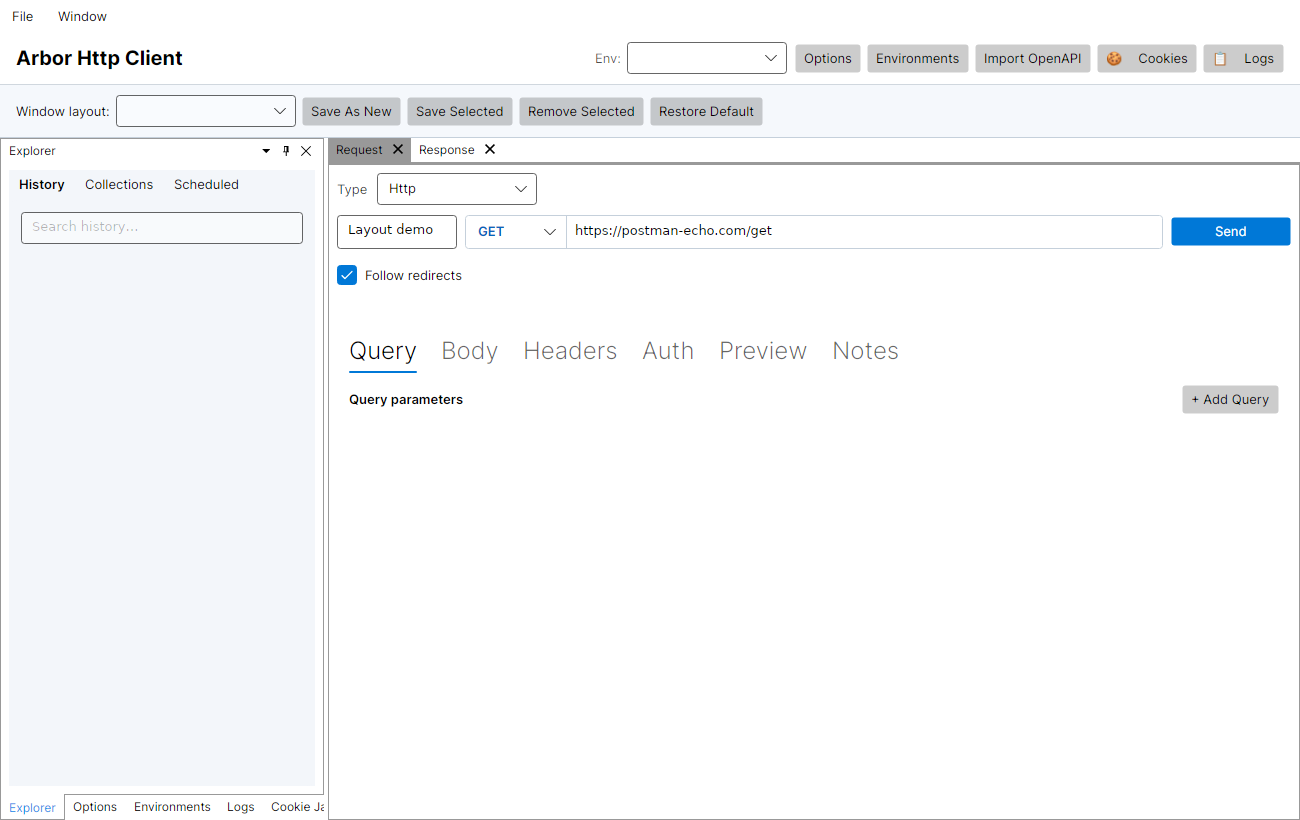
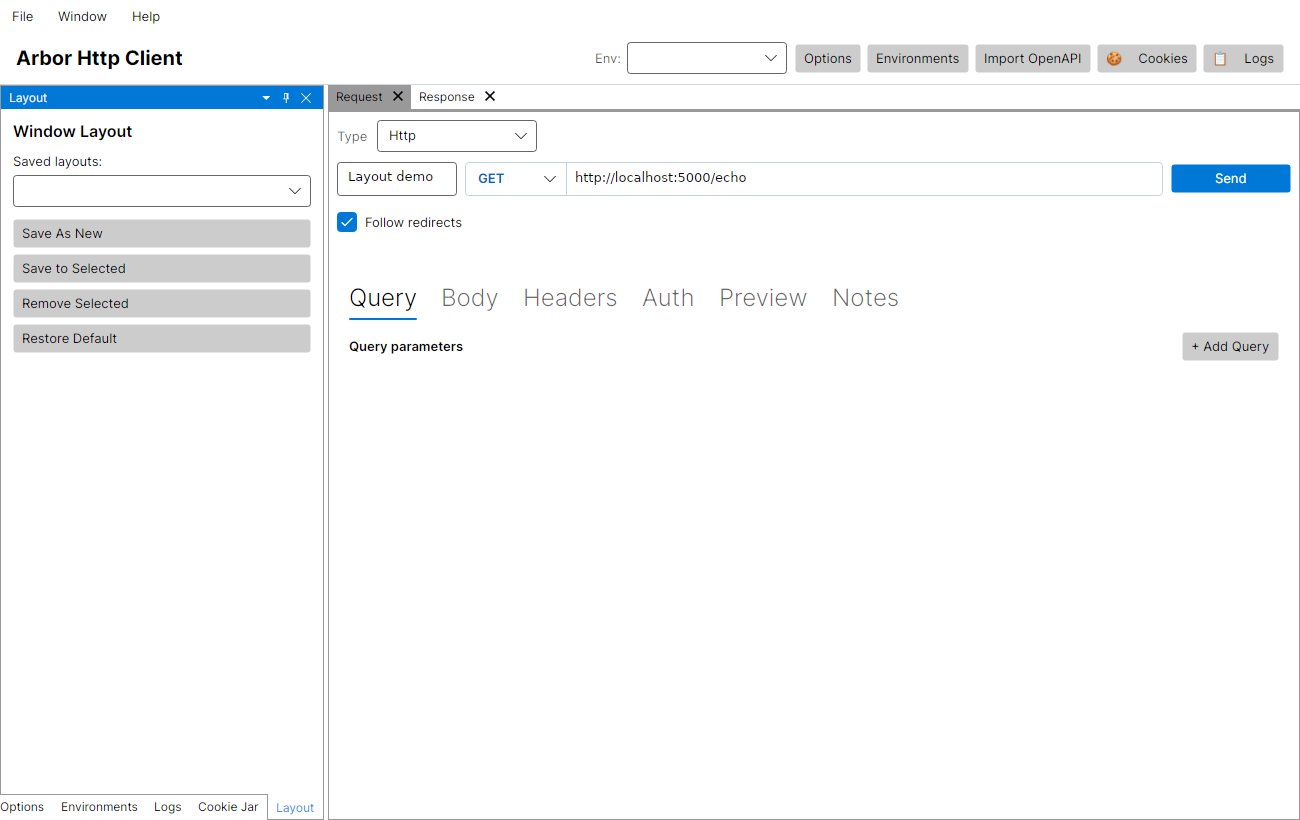
Convert layout management panel to dockable tool window
- Add LayoutManagementViewModel (Tool subclass) with proxy commands
- Add LayoutManagementView.axaml with window layout controls
- Register Layout panel as 6th dockable in DockFactory left tool dock
- ToggleLayoutPanel now activates the dockable instead of toggling a bar
- Remove IsLayoutPanelVisible property and inline Border from MainWindow
- Update E2E screenshot test to use new command
- Regenerate layout-panel.png showing new dockable panel
- Update docs/ux-ideas.md with implementation entry

Agent-Logs-Url: https://github.com/niklaslundberg/Arbor.HttpClient/sessions/1ef6acad-60b3-43e0-91c3-1bee6fef9440

diff --git a/src/Arbor.HttpClient.Desktop/ViewModels/DockFactory.cs b/src/Arbor.HttpClient.Desktop/ViewModels/DockFactory.cs
@@ -33,6 +33,7 @@ public sealed class DockFactory : Factory
     public EnvironmentsViewModel? EnvironmentsViewModel { get; private set; }
     public LogPanelViewModel? LogPanelViewModel { get; private set; }
     public CookieJarViewModel? CookieJarViewModel { get; private set; }
+    public LayoutManagementViewModel? LayoutManagementViewModel { get; private set; }
 
     public override IRootDock CreateLayout()
     {
@@ -41,17 +42,19 @@ public sealed class DockFactory : Factory
         var environments = _environmentsViewModel;
         var logs = new LogPanelViewModel(_mainVm);
         var cookieJar = _cookieJarViewModel;
+        var layoutManagement = new LayoutManagementViewModel(_mainVm);
         OptionsViewModel = options;
         EnvironmentsViewModel = environments;
         LogPanelViewModel = logs;
         CookieJarViewModel = cookieJar;
+        LayoutManagementViewModel = layoutManagement;
 
         var leftToolDock = new ToolDock
         {
             Id = "left-tool-dock",
             Proportion = 0.25,
             ActiveDockable = leftPanel,
-            VisibleDockables = CreateList<IDockable>(leftPanel, options, environments, logs, cookieJar),
+            VisibleDockables = CreateList<IDockable>(leftPanel, options, environments, logs, cookieJar, layoutManagement),
             Alignment = Alignment.Left,
             GripMode = GripMode.Visible
         };

diff --git a/src/Arbor.HttpClient.Desktop/ViewModels/LayoutManagementViewModel.cs b/src/Arbor.HttpClient.Desktop/ViewModels/LayoutManagementViewModel.cs
@@ -1,0 +1,28 @@
+using CommunityToolkit.Mvvm.Input;
+using Dock.Model.Mvvm.Controls;
+
+namespace Arbor.HttpClient.Desktop.ViewModels;
+
+public sealed partial class LayoutManagementViewModel : Tool
+{
+    public LayoutManagementViewModel(MainWindowViewModel app)
+    {
+        App = app;
+        Id = "layout-management";
+        Title = "Layout";
+    }
+
+    public MainWindowViewModel App { get; }
+
+    [RelayCommand]
+    private void SaveLayoutAsNew() => App.SaveLayoutAsNewCommand.Execute(null);
+
+    [RelayCommand]
+    private void SaveLayoutToExisting() => App.SaveLayoutToExistingCommand.Execute(App.SelectedLayoutName);
+
+    [RelayCommand]
+    private void RemoveLayout() => App.RemoveLayoutCommand.Execute(App.SelectedLayoutName);
+
+    [RelayCommand]
+    private void RestoreDefaultLayout() => App.RestoreDefaultLayoutCommand.Execute(null);
+}

diff --git a/src/Arbor.HttpClient.Desktop/ViewModels/MainWindowViewModel.cs b/src/Arbor.HttpClient.Desktop/ViewModels/MainWindowViewModel.cs
@@ -161,9 +161,6 @@ public partial class MainWindowViewModel : ViewModelBase, IDisposable
     private bool _isNewCollectionFormVisible;
 
     [ObservableProperty]
-    private bool _isLayoutPanelVisible;
-
-    [ObservableProperty]
     private string? _selectedLayoutName;
 
     public const string SystemThemeOption = "System";
@@ -834,7 +831,14 @@ public partial class MainWindowViewModel : ViewModelBase, IDisposable
     }
 
     [RelayCommand]
-    private void ToggleLayoutPanel() => IsLayoutPanelVisible = !IsLayoutPanelVisible;
+    private void ToggleLayoutPanel()
+    {
+        if (_dockFactory?.LeftToolDock is { } dock &&
+            _dockFactory.LayoutManagementViewModel is { } layoutVm)
+        {
+            dock.ActiveDockable = layoutVm;
+        }
+    }
 
     partial void OnSelectedLayoutNameChanged(string? value)
     {

diff --git a/src/Arbor.HttpClient.Desktop.E2E.Tests/ScreenshotGenerator.cs b/src/Arbor.HttpClient.Desktop.E2E.Tests/ScreenshotGenerator.cs
@@ -500,8 +500,8 @@ public class ScreenshotGenerator
                 method: "GET",
                 url: "http://localhost:5000/echo");
 
-            // Open the layout panel so it appears in the screenshot
-            viewModel.IsLayoutPanelVisible = true;
+            // Open the layout management dockable so it appears in the screenshot
+            viewModel.ToggleLayoutPanelCommand.Execute(null);
 
             window.Show();
 

diff --git a/src/Arbor.HttpClient.Desktop/Views/LayoutManagementView.axaml.cs b/src/Arbor.HttpClient.Desktop/Views/LayoutManagementView.axaml.cs
@@ -1,0 +1,9 @@
+namespace Arbor.HttpClient.Desktop.Views;
+
+public partial class LayoutManagementView : Avalonia.Controls.UserControl
+{
+    public LayoutManagementView()
+    {
+        InitializeComponent();
+    }
+}

diff --git a/docs/ux-ideas.md b/docs/ux-ideas.md
@@ -458,4 +458,20 @@ Each idea includes a description of what it means in practice, notes on how it c
 
 ---
 
+### Layout Management Dockable Panel ✅ Implemented
+> Implemented in PR #86 — `src/Arbor.HttpClient.Desktop/ViewModels/LayoutManagementViewModel.cs`, `src/Arbor.HttpClient.Desktop/Views/LayoutManagementView.axaml`, `src/Arbor.HttpClient.Desktop/ViewModels/DockFactory.cs`, `src/Arbor.HttpClient.Desktop/Views/MainWindow.axaml`
+
+**What it means:** The window layout management controls (save/restore/remove named layouts) are now a proper dockable tool panel in the left dock, instead of a fixed horizontal bar toggled at the top of the window. The panel can be moved, floated, and repositioned like all other tool panels.
+
+**What shipped:**
+- New `LayoutManagementViewModel` (extends `Tool`) with proxy commands to `MainWindowViewModel`
+- New `LayoutManagementView.axaml` with the "Window Layout" title, "Saved layouts:" ComboBox, and "Save As New", "Save to Selected", "Remove Selected", "Restore Default" buttons
+- `DockFactory` adds the Layout panel as the sixth dockable in the left `ToolDock`
+- `Window > Layout` menu item now focuses/activates the Layout dockable instead of toggling a fixed bar
+- Old inline `Border` layout bar removed from `MainWindow.axaml`
+
+**Polish items remaining:** Keyboard shortcut to focus the Layout panel directly.
+
+---
+
 *Last updated: April 2026. Suggestions sourced from comparative review of Hoppscotch, Insomnia, Postman, Bruno, and browser DevTools.*
